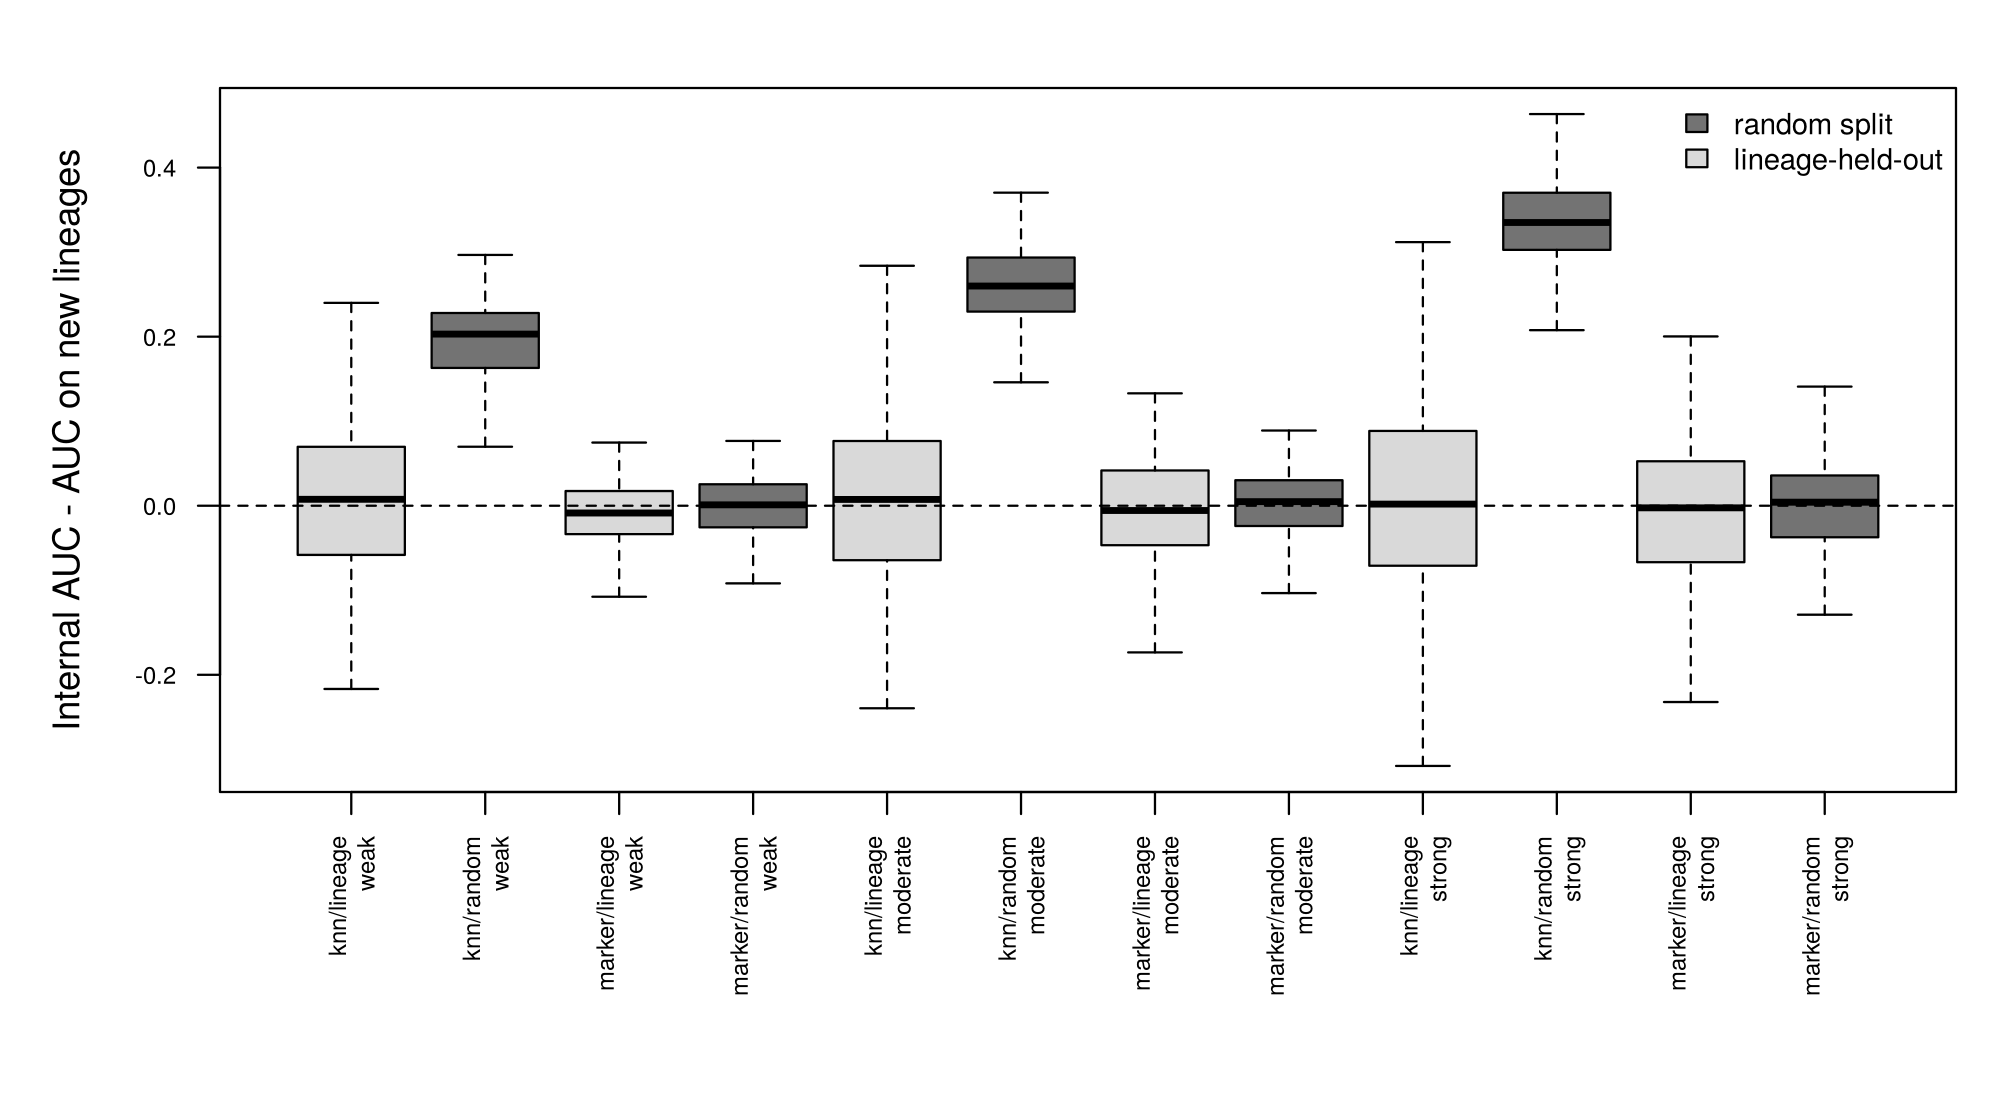
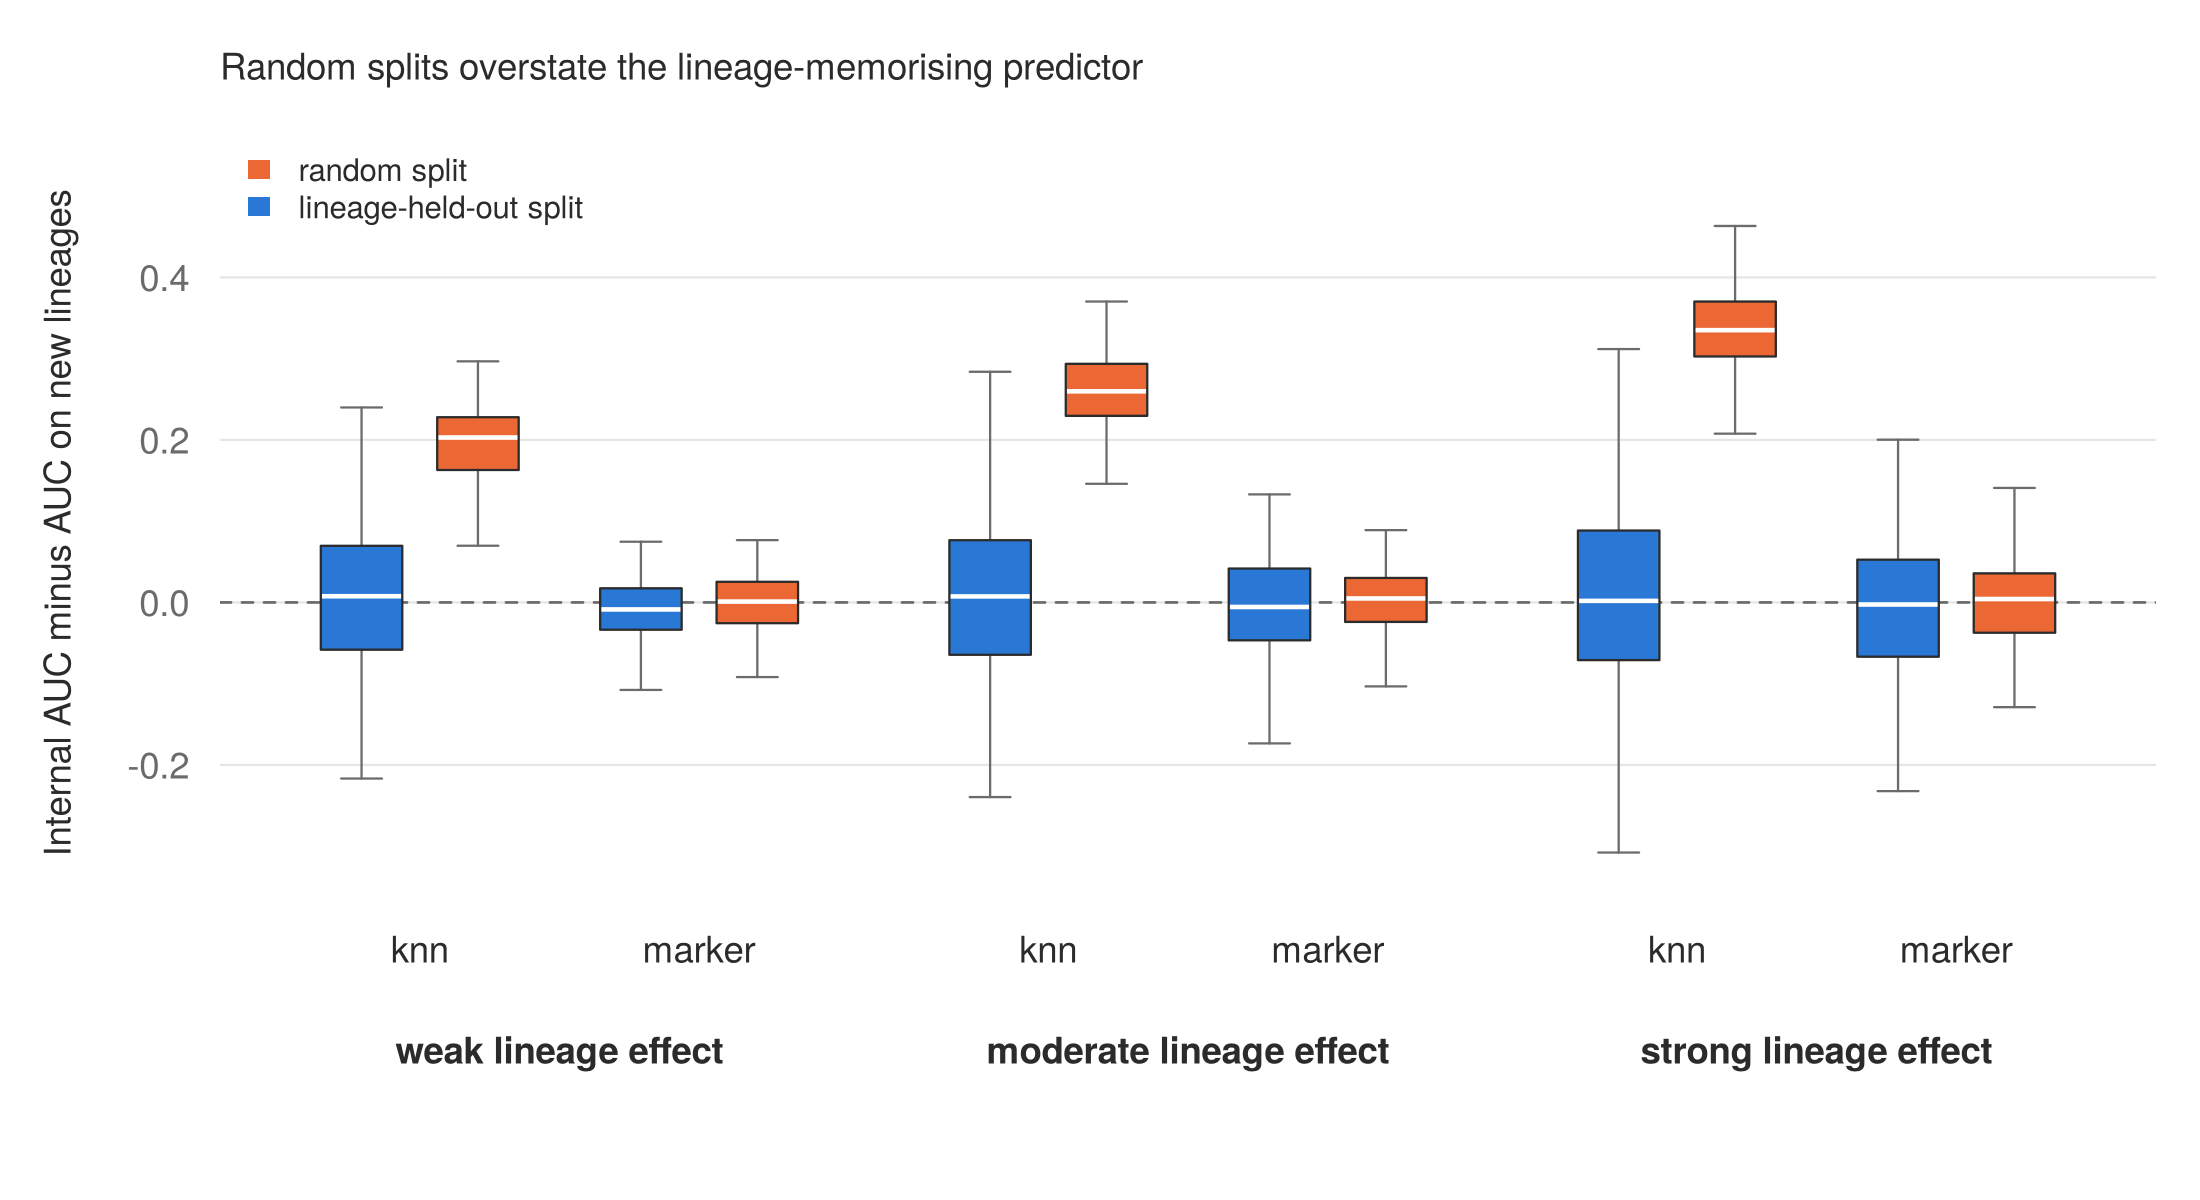
Use a colourblind-safe colour palette in all figures
- orange marks the naive choice (random split, isolate-level bootstrap,
  internal estimate) and blue the population-aware one, consistently
  across the vignette and simulation figures
- palette validated for protanopia, deuteranopia and tritanopia
- simulation figures moved to simulation/make_figures.R so they can be
  redrawn from saved results without re-running the study
- direct percentage labels on coverage bars, light grid, no chart junk

diff --git a/simulation/README.md b/simulation/README.md
@@ -44,7 +44,18 @@ Rscript simulation/run_study.R 200 7 200
 ```
 
 The arguments are the number of replicates per scenario, CPU cores and
-bootstrap replicates. Results are written to `simulation/results/`:
+bootstrap replicates. To redraw the figures from saved results without
+re-running the study:
+
+```bash
+Rscript simulation/make_figures.R
+```
+
+Figures use a colourblind-safe pair throughout: orange for the naive choice
+(random split, isolate-level bootstrap) and blue for the population-aware one
+(lineage-held-out split, lineage-level bootstrap).
+
+Results are written to `simulation/results/`:
 
 | File | Contents |
 |---|---|
